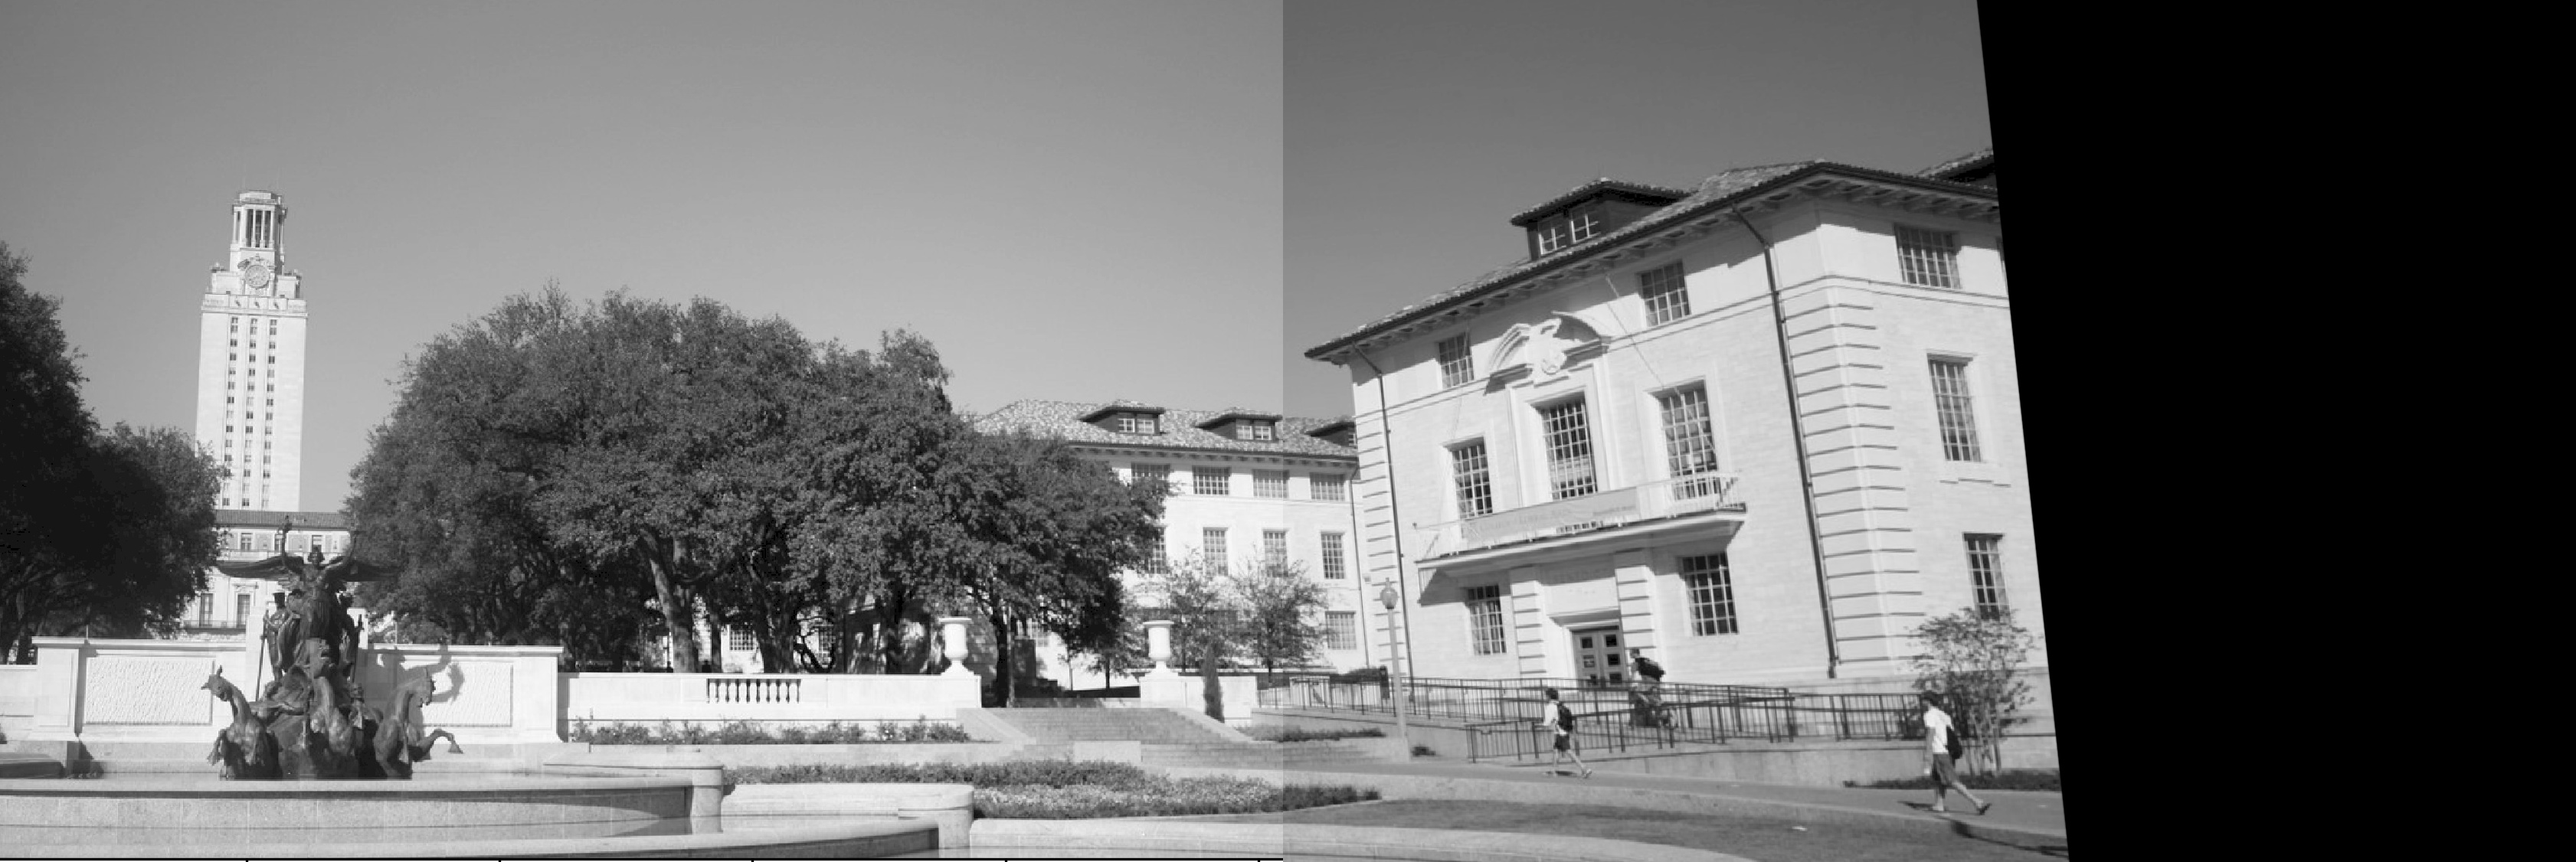
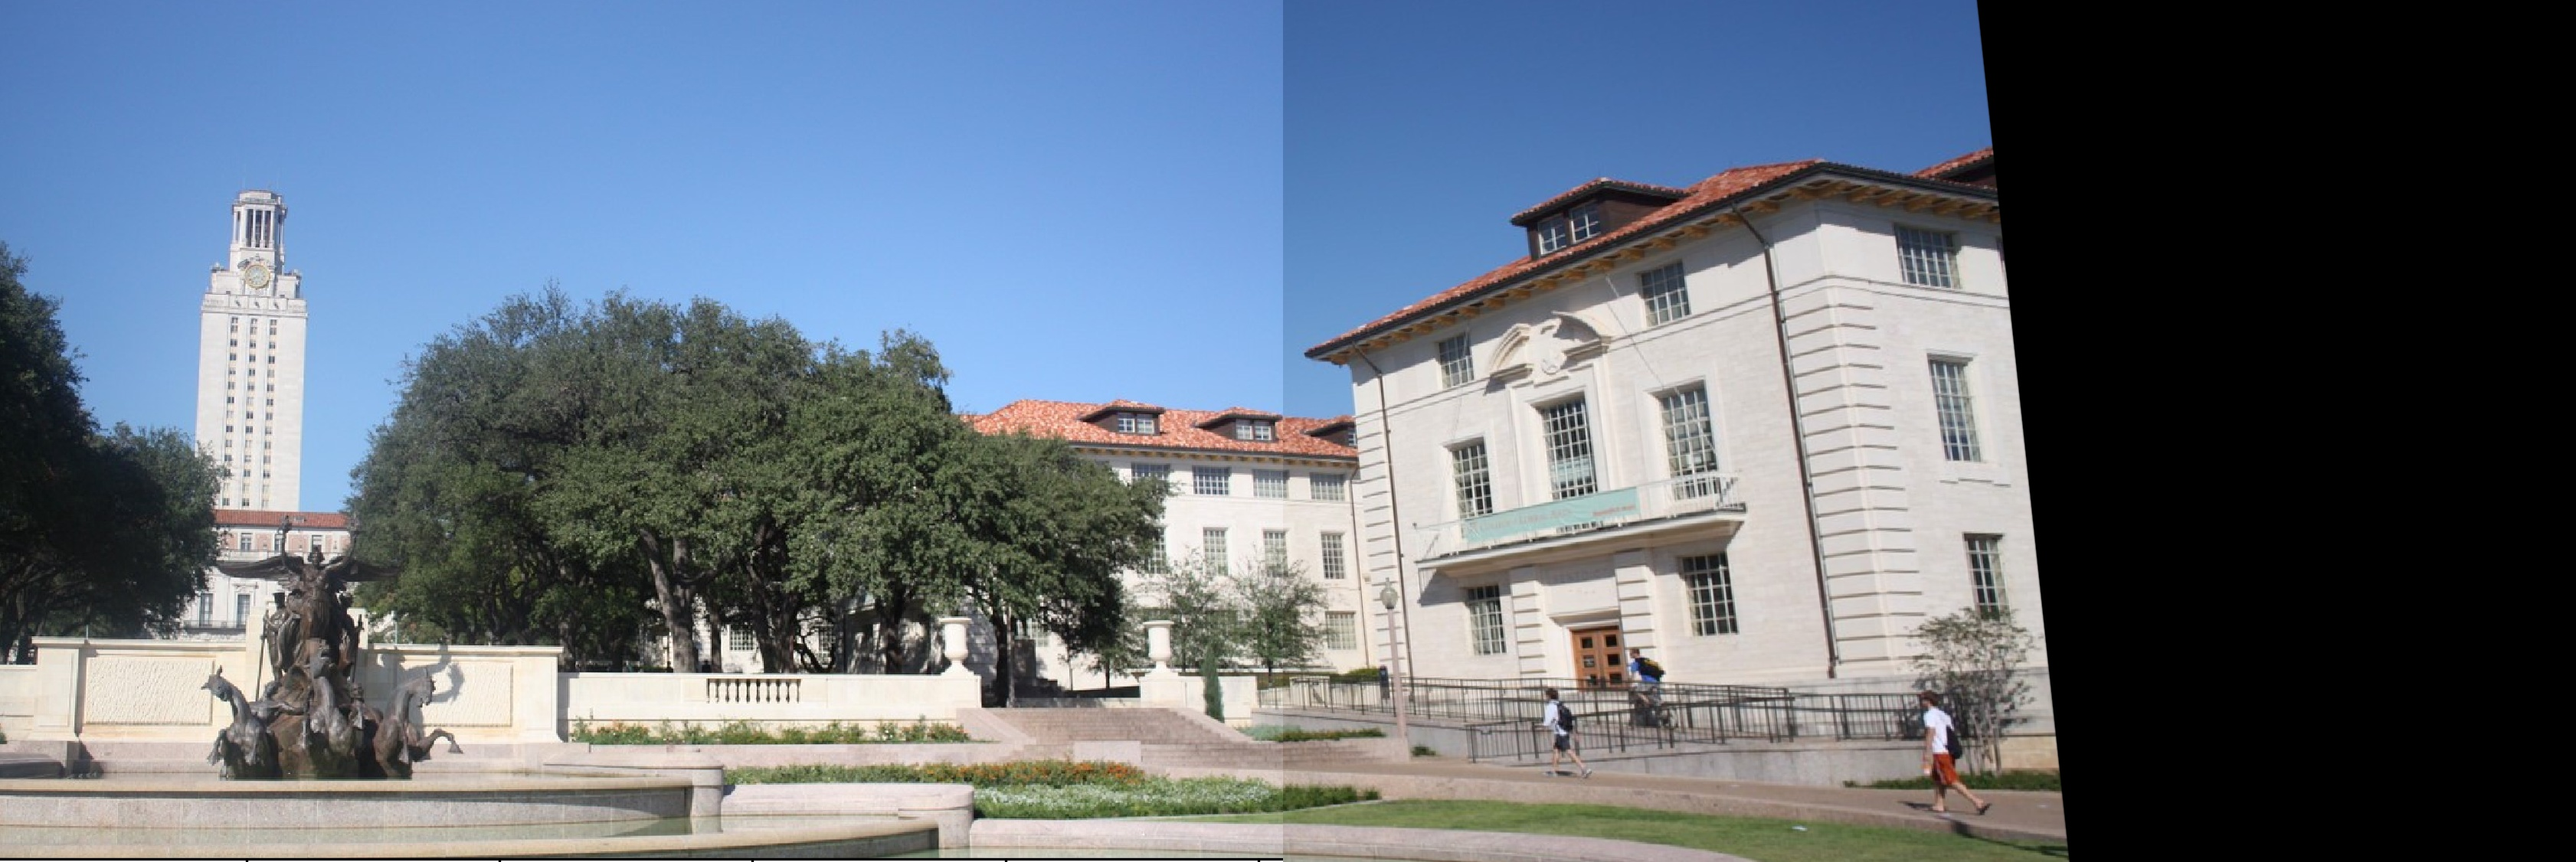
Returning Image in Color

diff --git a/stitching.py b/stitching.py
@@ -2,8 +2,11 @@ import cv2
 import numpy as np
 import argparse
 
-def getImage(path):
+def getGrayscaleImage(path):
     return cv2.imread(path, cv2.IMREAD_GRAYSCALE)
+
+def getColorImage(path):
+    return cv2.imread(path)
 
 def getKeypointsAndDescriptors(image, feature_extraction_method):
     if feature_extraction_method == 'sift':
@@ -64,16 +67,19 @@ def stitchImages(matches, keypoints1, keypoints2, img1, img2):
 
 
 def main(path1, path2, feature_extraction_method, matcher_method, k_val, ratio):
-    img1 = getImage(path1)
-    img2 = getImage(path2)
+    img1_color = getColorImage(path1)
+    img2_color = getColorImage(path2)
 
-    (keypoints1, descriptors1) = getKeypointsAndDescriptors(img1, feature_extraction_method)
-    (keypoints2, descriptors2) = getKeypointsAndDescriptors(img2, feature_extraction_method)
+    img1_gray = getGrayscaleImage(path1)
+    img2_gray = getGrayscaleImage(path2)
+
+    (keypoints1, descriptors1) = getKeypointsAndDescriptors(img1_gray, feature_extraction_method)
+    (keypoints2, descriptors2) = getKeypointsAndDescriptors(img2_gray, feature_extraction_method)
 
     matcher = createMatcher(matcher_method, feature_extraction_method)
 
-    matches = matchFeatures(matcher, img1, img2, keypoints1, descriptors1, keypoints2, descriptors2, k_val, ratio)
-    stitchImages(matches, keypoints1, keypoints2, img1, img2)
+    matches = matchFeatures(matcher, img1_gray, img2_gray, keypoints1, descriptors1, keypoints2, descriptors2, k_val, ratio)
+    stitchImages(matches, keypoints1, keypoints2, img1_color, img2_color)
 
 
 if __name__ == '__main__':
